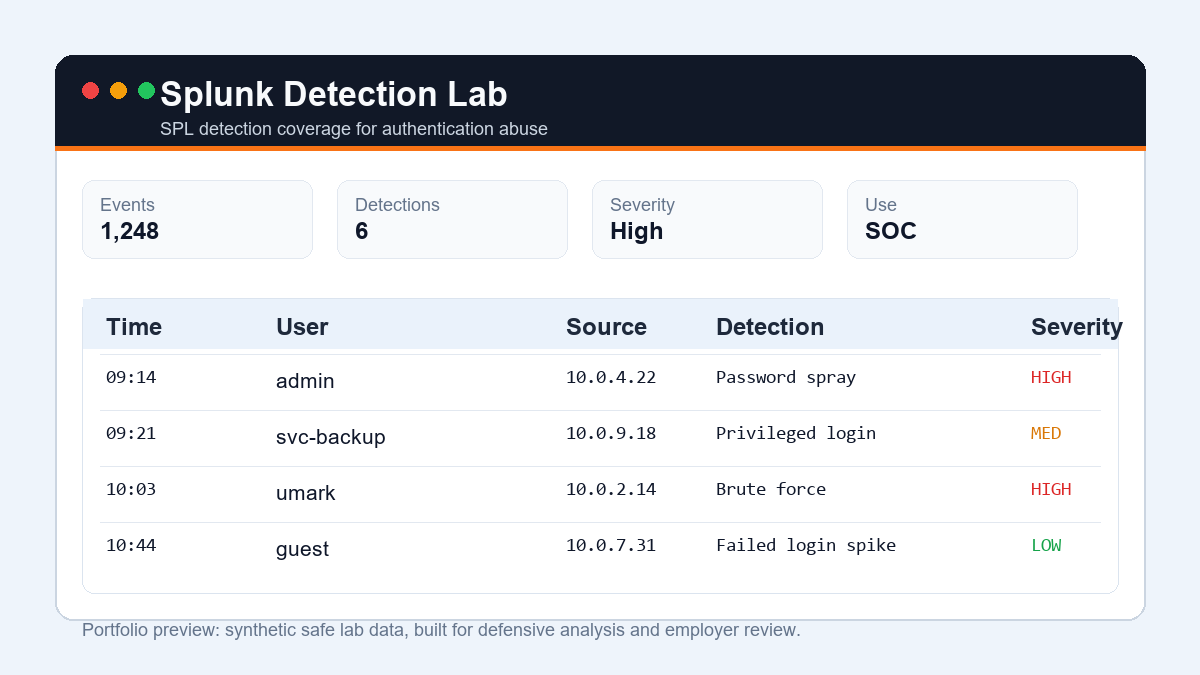
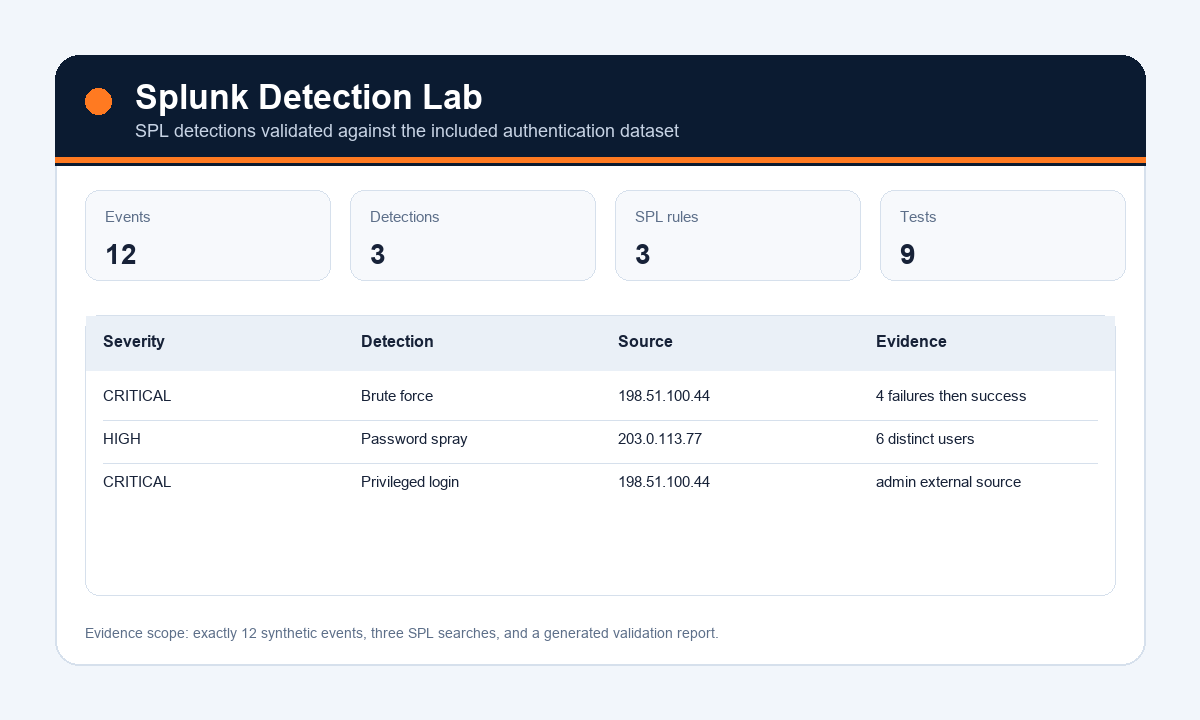
Add time-windowed Splunk detection validation

diff --git a/src/splunk_detection_lab/detector.py b/src/splunk_detection_lab/detector.py
@@ -1,9 +1,11 @@
 from __future__ import annotations
 
+import argparse
 import ipaddress
 import json
 from collections import defaultdict
 from dataclasses import dataclass
+from datetime import datetime, timedelta
 from pathlib import Path
 
 
@@ -26,47 +28,68 @@ def load_events(path: str | Path = ROOT / "sample_data" / "auth_events.json") ->
     return [AuthEvent(**row) for row in rows]
 
 
-def detect_bruteforce(events: list[AuthEvent], threshold: int = 4) -> list[dict[str, object]]:
+def detect_bruteforce(
+    events: list[AuthEvent], threshold: int = 4, window_minutes: int = 15
+) -> list[dict[str, object]]:
     failures: dict[tuple[str, str, str], list[AuthEvent]] = defaultdict(list)
-    successes = {(event.src_ip, event.user, event.host) for event in events if event.action == "success"}
+    successes: dict[tuple[str, str, str], list[AuthEvent]] = defaultdict(list)
     for event in events:
         if event.action == "failure":
             failures[(event.src_ip, event.user, event.host)].append(event)
+        elif event.action == "success":
+            successes[(event.src_ip, event.user, event.host)].append(event)
 
     findings = []
     for (src_ip, user, host), items in failures.items():
-        if len(items) >= threshold:
+        window = _largest_window(items, window_minutes)
+        if len(window) >= threshold:
+            first_failure = _time(window[0])
+            last_failure = _time(window[-1])
+            success_after = any(
+                last_failure < _time(event) <= last_failure + timedelta(minutes=window_minutes)
+                for event in successes[(src_ip, user, host)]
+            )
             findings.append(
                 {
                     "type": "BRUTE_FORCE",
                     "src_ip": src_ip,
                     "user": user,
                     "host": host,
-                    "failures": len(items),
-                    "success_after_failures": (src_ip, user, host) in successes,
-                    "severity": "critical" if (src_ip, user, host) in successes else "high",
+                    "failures": len(window),
+                    "window_start": first_failure.isoformat(),
+                    "window_end": last_failure.isoformat(),
+                    "success_after_failures": success_after,
+                    "severity": "critical" if success_after else "high",
                 }
             )
     return findings
 
 
-def detect_password_spray(events: list[AuthEvent], unique_user_threshold: int = 5) -> list[dict[str, object]]:
-    attempts: dict[str, set[str]] = defaultdict(set)
+def detect_password_spray(
+    events: list[AuthEvent], unique_user_threshold: int = 5, window_minutes: int = 15
+) -> list[dict[str, object]]:
+    attempts: dict[str, list[AuthEvent]] = defaultdict(list)
     for event in events:
         if event.action == "failure":
-            attempts[event.src_ip].add(event.user)
+            attempts[event.src_ip].append(event)
 
-    return [
-        {
-            "type": "PASSWORD_SPRAY",
-            "src_ip": src_ip,
-            "unique_users": len(users),
-            "attempted_users": sorted(users),
-            "severity": "high",
-        }
-        for src_ip, users in attempts.items()
-        if len(users) >= unique_user_threshold
-    ]
+    findings = []
+    for src_ip, items in attempts.items():
+        window = _largest_window(items, window_minutes, score=lambda rows: len({row.user for row in rows}))
+        users = sorted({event.user for event in window})
+        if len(users) >= unique_user_threshold:
+            findings.append(
+                {
+                    "type": "PASSWORD_SPRAY",
+                    "src_ip": src_ip,
+                    "unique_users": len(users),
+                    "attempted_users": users,
+                    "window_start": _time(window[0]).isoformat(),
+                    "window_end": _time(window[-1]).isoformat(),
+                    "severity": "high",
+                }
+            )
+    return findings
 
 
 def detect_privileged_unusual_source(events: list[AuthEvent], internal_cidr: str = "10.0.0.0/8") -> list[dict[str, object]]:
@@ -75,7 +98,11 @@ def detect_privileged_unusual_source(events: list[AuthEvent], internal_cidr: str
     for event in events:
         if event.action != "success" or not event.privileged:
             continue
-        if ipaddress.ip_address(event.src_ip) not in internal:
+        try:
+            external = ipaddress.ip_address(event.src_ip) not in internal
+        except ValueError:
+            external = True
+        if external:
             findings.append(
                 {
                     "type": "PRIVILEGED_UNUSUAL_SOURCE",
@@ -97,8 +124,53 @@ def run_all(events: list[AuthEvent]) -> list[dict[str, object]]:
     return findings
 
 
+def write_report(findings: list[dict[str, object]], path: str | Path) -> None:
+    rows = "\n".join(
+        f"| {item['severity'].upper()} | {item['type']} | {item['src_ip']} | {_evidence(item)} |"
+        for item in findings
+    )
+    Path(path).parent.mkdir(parents=True, exist_ok=True)
+    Path(path).write_text(
+        "# Splunk Detection Validation Report\n\n"
+        "Generated from `sample_data/auth_events.json` using the Python validation harness.\n\n"
+        "| Severity | Detection | Source | Evidence |\n"
+        "| --- | --- | --- | --- |\n"
+        f"{rows or '| - | No detections | - | - |'}\n",
+        encoding="utf-8",
+    )
+
+
+def _time(event: AuthEvent) -> datetime:
+    return datetime.fromisoformat(event.timestamp.replace("Z", "+00:00"))
+
+
+def _largest_window(
+    events: list[AuthEvent], window_minutes: int, score=lambda rows: len(rows)
+) -> list[AuthEvent]:
+    ordered = sorted(events, key=_time)
+    duration = timedelta(minutes=window_minutes)
+    candidates = [
+        [event for event in ordered if _time(start) <= _time(event) <= _time(start) + duration]
+        for start in ordered
+    ]
+    return max(candidates, key=score, default=[])
+
+
+def _evidence(item: dict[str, object]) -> str:
+    if item["type"] == "BRUTE_FORCE":
+        return f"{item['failures']} failures against {item['user']}; success_after={item['success_after_failures']}"
+    if item["type"] == "PASSWORD_SPRAY":
+        return f"{item['unique_users']} users attempted"
+    return f"privileged user {item['user']} on {item['host']}"
+
+
 def main() -> int:
-    findings = run_all(load_events())
+    parser = argparse.ArgumentParser(description="Validate Splunk authentication detections against synthetic events.")
+    parser.add_argument("--events", default=str(ROOT / "sample_data" / "auth_events.json"))
+    parser.add_argument("--report", default="docs/examples/example_detection_report.md")
+    args = parser.parse_args()
+    findings = run_all(load_events(args.events))
+    write_report(findings, args.report)
     for finding in findings:
         if finding["type"] == "BRUTE_FORCE":
             print(f"BRUTE_FORCE: {finding['src_ip']} against {finding['user']} on {finding['host']}")
@@ -106,6 +178,7 @@ def main() -> int:
             print(f"PASSWORD_SPRAY: {finding['src_ip']} attempted {finding['unique_users']} users")
         elif finding["type"] == "PRIVILEGED_UNUSUAL_SOURCE":
             print(f"PRIVILEGED_UNUSUAL_SOURCE: {finding['user']} from {finding['src_ip']}")
+    print(f"Report: {args.report}")
     return 0
 
 

diff --git a/tests/test_detector.py b/tests/test_detector.py
@@ -1,4 +1,7 @@
 import unittest
+from dataclasses import replace
+import tempfile
+from pathlib import Path
 
 from splunk_detection_lab.detector import (
     detect_bruteforce,
@@ -6,6 +9,7 @@ from splunk_detection_lab.detector import (
     detect_privileged_unusual_source,
     load_events,
     run_all,
+    write_report,
 )
 
 
@@ -36,6 +40,32 @@ class SplunkDetectionTests(unittest.TestCase):
         types = {item["type"] for item in run_all(self.events)}
 
         self.assertEqual(types, {"BRUTE_FORCE", "PASSWORD_SPRAY", "PRIVILEGED_UNUSUAL_SOURCE"})
+
+    def test_failures_outside_window_do_not_trigger(self):
+        spread = [replace(event, timestamp=f"2026-07-07T{9 + index:02d}:00:00") for index, event in enumerate(self.events[:4])]
+        self.assertEqual(detect_bruteforce(spread), [])
+
+    def test_success_before_failures_does_not_escalate_to_critical(self):
+        success = replace(self.events[4], timestamp="2026-07-07T08:59:00")
+        finding = detect_bruteforce([success, *self.events[:4]])[0]
+        self.assertFalse(finding["success_after_failures"])
+        self.assertEqual(finding["severity"], "high")
+
+    def test_password_spray_requires_users_in_same_window(self):
+        spray = [replace(event, timestamp=f"2026-07-07T{index + 1:02d}:00:00") for index, event in enumerate(self.events[5:11])]
+        self.assertEqual(detect_password_spray(spray), [])
+
+    def test_malformed_external_ip_is_flagged_without_crashing(self):
+        event = replace(self.events[4], src_ip="unknown")
+        self.assertEqual(detect_privileged_unusual_source([event])[0]["src_ip"], "unknown")
+
+    def test_report_contains_validated_detection_evidence(self):
+        with tempfile.TemporaryDirectory() as directory:
+            path = Path(directory) / "report.md"
+            write_report(run_all(self.events), path)
+            report = path.read_text(encoding="utf-8")
+        self.assertIn("BRUTE_FORCE", report)
+        self.assertIn("PASSWORD_SPRAY", report)
 
 
 if __name__ == "__main__":

diff --git a/README.md b/README.md
@@ -24,8 +24,8 @@ The project uses safe synthetic authentication logs and includes:
 
 - SPL searches for common SOC scenarios.
 - Sample Windows/Linux-style authentication events.
-- Python validation logic to prove the detection ideas work on sample data.
-- Unit tests for brute-force, password spray, privileged login, and suspicious source detection.
+- Time-windowed Python validation logic that proves the detection ideas work on sample data.
+- Unit tests covering positive detections, event ordering, time-window boundaries, and malformed sources.
 - Analyst notes covering evidence, false positives, and triage actions.
 
 ## Why This Helps Employers
@@ -67,6 +67,11 @@ PRIVILEGED_UNUSUAL_SOURCE: admin from 198.51.100.44
 | `src/splunk_detection_lab/detector.py` | Local validation logic |
 | `tests/` | Unit tests for detection behavior |
 | `docs/analyst-playbook.md` | Triage notes and false-positive handling |
+| `docs/examples/example_detection_report.md` | Reproducible report generated from the included 12 events |
+
+## Evidence Scope
+
+The included dataset contains **12 synthetic authentication events** and validates **three SPL detection use cases**. The preview and example report are based on that exact dataset; no production event counts are claimed.
 
 ## Responsible Use
 

diff --git a/docs/examples/example_detection_report.md b/docs/examples/example_detection_report.md
@@ -1,0 +1,9 @@
+# Splunk Detection Validation Report
+
+Generated from `sample_data/auth_events.json` using the Python validation harness.
+
+| Severity | Detection | Source | Evidence |
+| --- | --- | --- | --- |
+| CRITICAL | BRUTE_FORCE | 198.51.100.44 | 4 failures against admin; success_after=True |
+| HIGH | PASSWORD_SPRAY | 203.0.113.77 | 6 users attempted |
+| CRITICAL | PRIVILEGED_UNUSUAL_SOURCE | 198.51.100.44 | privileged user admin on web-01 |